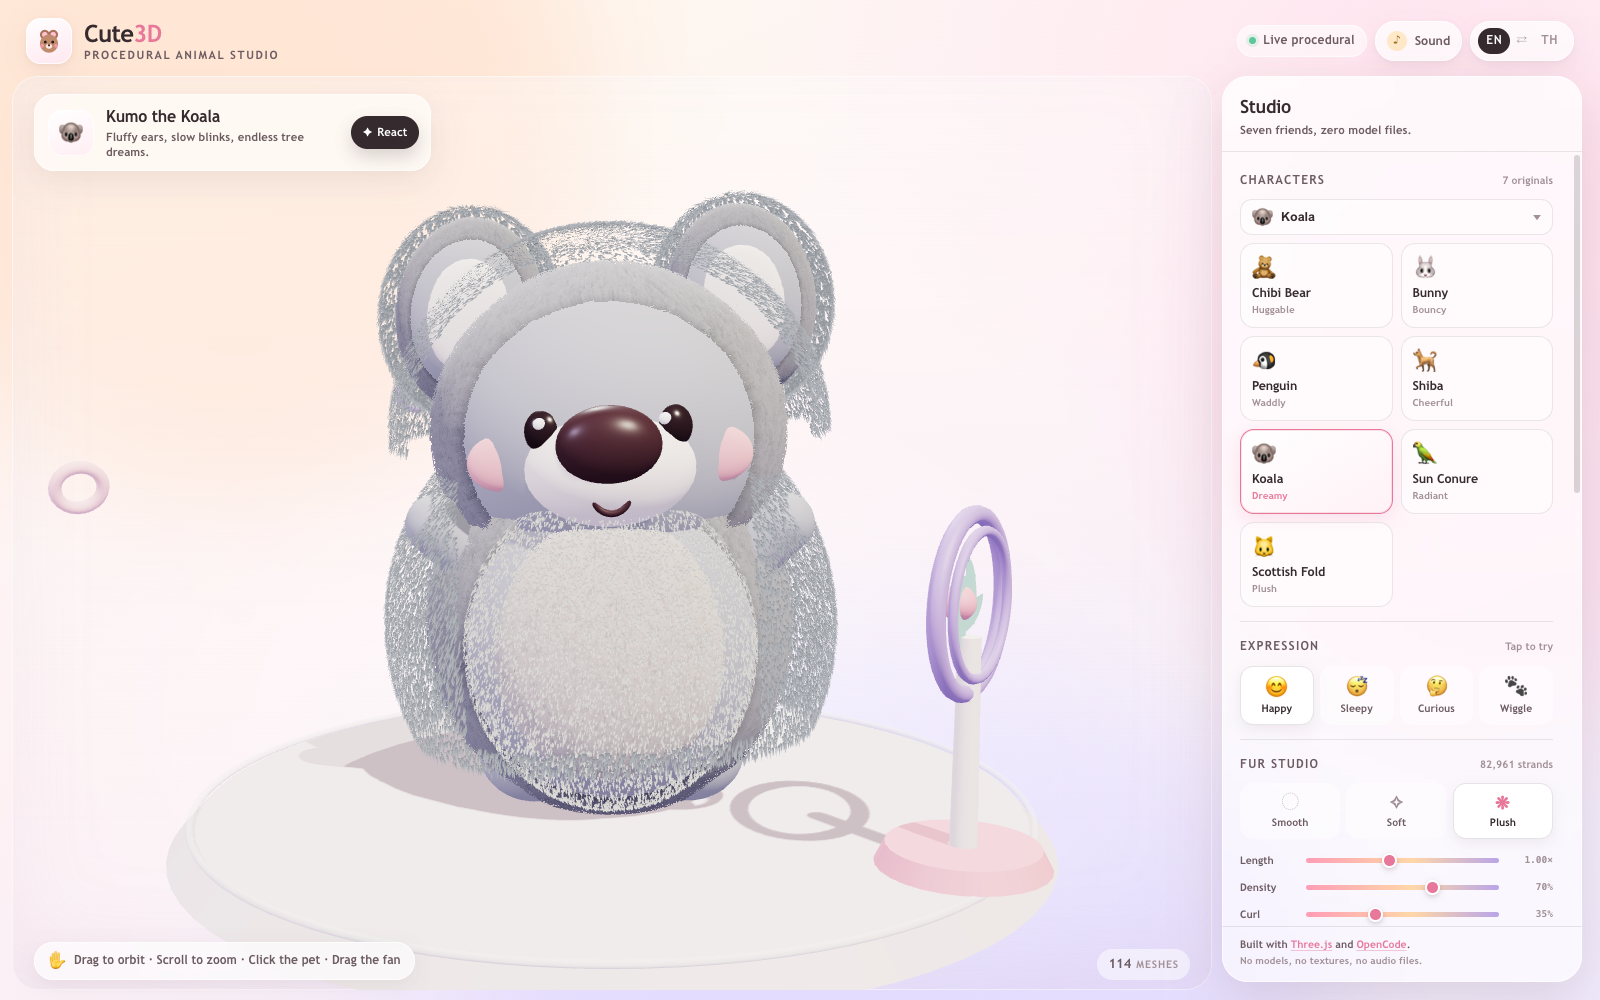
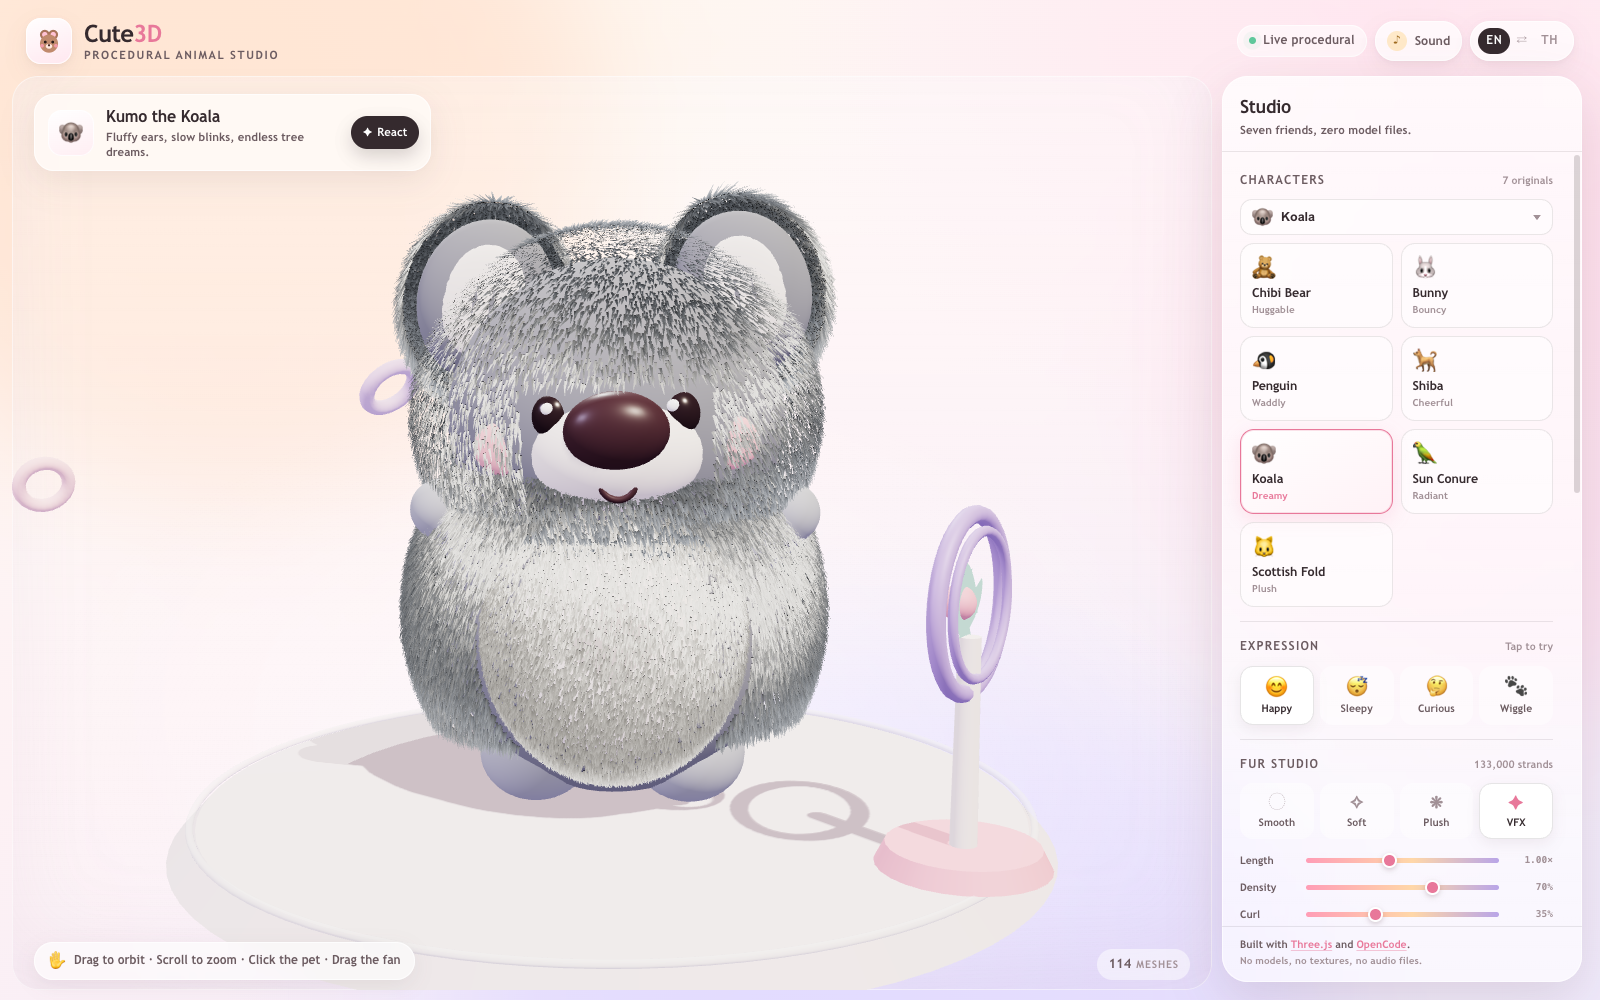
chore: sync Cute3D v1.5.1 coat fit

diff --git a/cute3d-animal-studio/assets/reference/script.js b/cute3d-animal-studio/assets/reference/script.js
@@ -2696,7 +2696,8 @@ const vfxStrandMaterial = (color, bellyColor = color) => new THREE.ShaderMateria
     uCursor: STRAND_UNIFORMS.uCursor,
     uColor: { value: new THREE.Color(color) },
     uBelly: { value: new THREE.Color(bellyColor) },
-    uTip: { value: new THREE.Color(color).lerp(new THREE.Color('#ffffff'), 0.12) },
+    uBellyTip: { value: new THREE.Color(bellyColor).lerp(new THREE.Color('#ffffff'), 0.08) },
+    uTip: { value: new THREE.Color(color).lerp(new THREE.Color('#ffffff'), 0.1) },
     uKey: { value: new THREE.Vector3(3.4, 6.4, 4.6).normalize() },
     uFill: { value: new THREE.Vector3(-4.5, 3, 2).normalize() },
   },
@@ -2746,6 +2747,7 @@ const vfxStrandMaterial = (color, bellyColor = color) => new THREE.ShaderMateria
   fragmentShader: `
     uniform vec3 uColor;
     uniform vec3 uBelly;
+    uniform vec3 uBellyTip;
     uniform vec3 uTip;
     uniform vec3 uKey;
     uniform vec3 uFill;
@@ -2767,7 +2769,8 @@ const vfxStrandMaterial = (color, bellyColor = color) => new THREE.ShaderMateria
       float spec = pow(sinTH, 86.0) * 0.72 + pow(sinTH, 15.0) * 0.16;
       float diff = 0.28 + 0.72 * max(dot(N, L), 0.0);
       float fill = max(dot(N, normalize(uFill)), 0.0) * 0.22;
-      vec3 base = mix(mix(uColor, uBelly, vRole), uTip, smoothstep(0.0, 0.86, vUv.y));
+      vec3 tipColor = mix(uTip, uBellyTip, vRole);
+      vec3 base = mix(mix(uColor, uBelly, vRole), tipColor, smoothstep(0.0, 0.86, vUv.y));
       base *= 0.72 + 0.42 * vTint;
       float ao = mix(0.28, 1.0, pow(vUv.y, 0.55));
       float rim = pow(1.0 - max(dot(N, V), 0.0), 2.2) * 0.07;
@@ -2799,8 +2802,8 @@ const sampleVfxRoots = (mesh, zone, target, rand) => {
     if (zone.maxY !== undefined && dir.y > zone.maxY) continue;
     if (zone.minZ !== undefined && dir.z < zone.minZ) continue;
     if (zone.maxZ !== undefined && dir.z > zone.maxZ) continue;
-    if (zone.skipBelly && dir.z > 0.42 && Math.abs(dir.x) < 0.5 && dir.y > -0.58 && dir.y < 0.32) continue;
-    if (zone.skipFace && dir.z > 0.48 && Math.abs(dir.x) < 0.52 && dir.y > -0.42 && dir.y < 0.36) continue;
+    if (zone.skipBelly && dir.z > 0.4 && (dir.x / 0.6) ** 2 + ((dir.y + 0.03) / 0.6) ** 2 < 1) continue;
+    if (zone.skipFace && dir.z > 0.56 && Math.abs(dir.x) < 0.42 && dir.y > -0.32 && dir.y < 0.24) continue;
     const point = new THREE.Vector3(
       dir.x * mesh.scale.x * 1.2,
       dir.y * mesh.scale.y * 1.2,
@@ -2821,9 +2824,9 @@ const buildVfxKoala = (instance, level) => {
   disposeStrands(instance);
   const budget = level === 'vfx' ? (window.innerWidth < 800 ? 80000 : 190000) : 90000;
   const zones = [
-    { mesh: 'body', role: 'main', weight: 46, len: [0.025, 0.05], radius: [0.004, 0.0068], minY: -0.45 },
-    { mesh: 'belly', role: 'belly', weight: 7, len: [0.012, 0.025], radius: [0.0032, 0.0058], minZ: 0.1 },
-    { mesh: 'head-mesh', role: 'main', weight: 21, len: [0.025, 0.05], radius: [0.0032, 0.0058], skipFace: true },
+    { mesh: 'body', role: 'main', weight: 48, len: [0.04, 0.08], radius: [0.004, 0.007], minY: -0.45, skipBelly: true },
+    { mesh: 'belly', role: 'belly', weight: 12, len: [0.028, 0.052], radius: [0.0038, 0.0065], minZ: 0.1 },
+    { mesh: 'head-mesh', role: 'main', weight: 21, len: [0.035, 0.07], radius: [0.0032, 0.006], skipFace: true },
     { mesh: 'ear-left', role: 'main', weight: 6, len: [0.055, 0.11], radius: [0.0038, 0.0068], maxZ: 0.25 },
     { mesh: 'ear-right', role: 'main', weight: 6, len: [0.055, 0.11], radius: [0.0038, 0.0068], maxZ: 0.25 },
     { mesh: 'tail', role: 'main', weight: 2, len: [0.018, 0.035], radius: [0.003, 0.0052] },
@@ -2884,7 +2887,7 @@ const buildVfxKoala = (instance, level) => {
       const nx = (p.x - mesh.position.x) / mesh.scale.x;
       const ny = (p.y - mesh.position.y) / mesh.scale.y;
       const nz = (p.z - mesh.position.z) / mesh.scale.z;
-      const belly = zone.role === 'belly' || (zone.mesh === 'body' && nz > 0.2 && (nx / 0.62) ** 2 + ((ny + 0.03) / 0.68) ** 2 < 1);
+      const belly = zone.role === 'belly';
       rolesAttr.setX(i, belly ? 1 : 0);
       const tangent = new THREE.Vector3(rand() * 2 - 1, rand() * 2 - 1, rand() * 2 - 1);
       tangent.addScaledVector(n, -tangent.dot(n));
@@ -4527,7 +4530,7 @@ const boot = () => {
 
   window.__cute3d = {
     ready: true,
-    version: '1.5.0',
+    version: '1.5.1',
     engine: ENGINE,
     state,
     scene,

diff --git a/cute3d-animal-studio/SKILL.md b/cute3d-animal-studio/SKILL.md
@@ -1,7 +1,7 @@
 ---
 name: Cute3D Animal Studio
 description: Build a release-grade, zero-asset 3D animal character studio with seven original procedural Three.js pets, layered fur and feather shells, a real koala-only GPU strand coat plus an optional VFX groom, with an inherited wind fan, species postures, idle/click animations, live colours/accessories, Web Audio, a bilingual EN/TH UI, local presets, transparent PNG export, four test layers and GitHub Pages.
-version: 1.5.0
+version: 1.5.1
 ---
 
 # Cute3D Animal Studio
